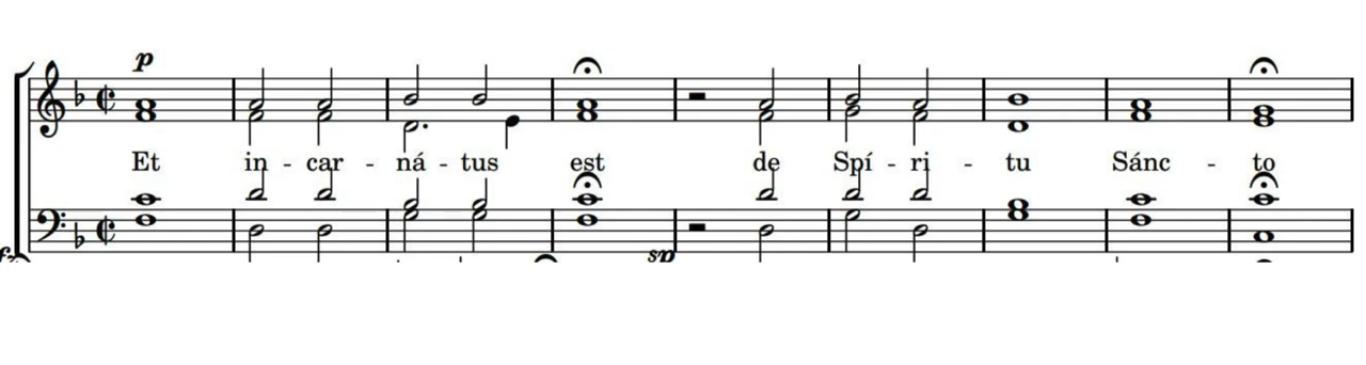
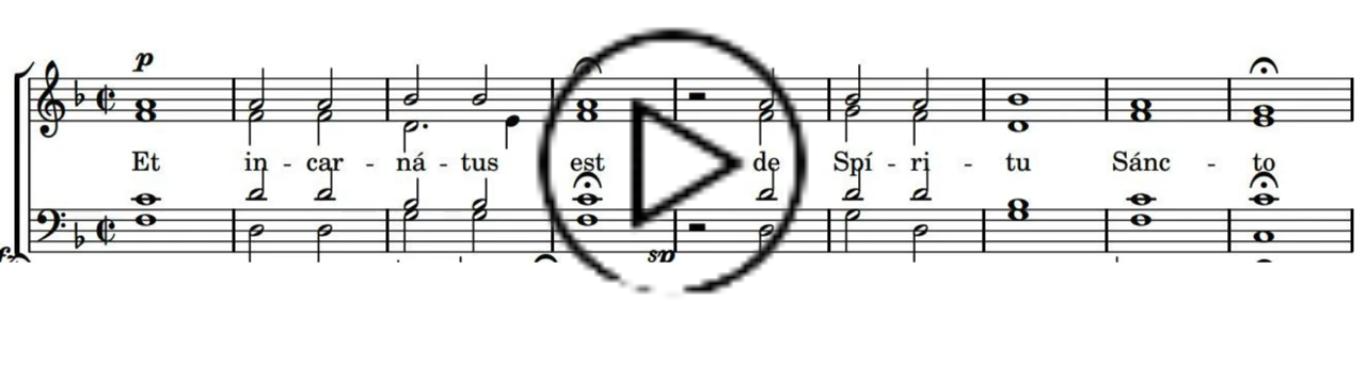
modif de l'image de la vidéo

Changed region(s): [[0.369, 0.0603, 0.6149, 0.8137]]

diff --git a/.doc/README_en.md b/.doc/README_en.md
@@ -12,7 +12,7 @@
 
 | Before | After |
 | --- | --- |
-| <img src="readme_medias/et_incarnatus_est_old.jpg" width="1000px"/> | <video src="readme_medias/Et incarnatus est.mp4" controls width="1000"></video> |
+| <img src="readme_medias/et_incarnatus_est_old.jpg" width="1000px"/> | <a href="https://www.youtube.com/watch?v=dzlRLgd_ito"><img src="readme_medias/Et incarnatus est.jpg" width="1000px"/></a> |
 
 - **Harmonize** a melody found by chance
 
